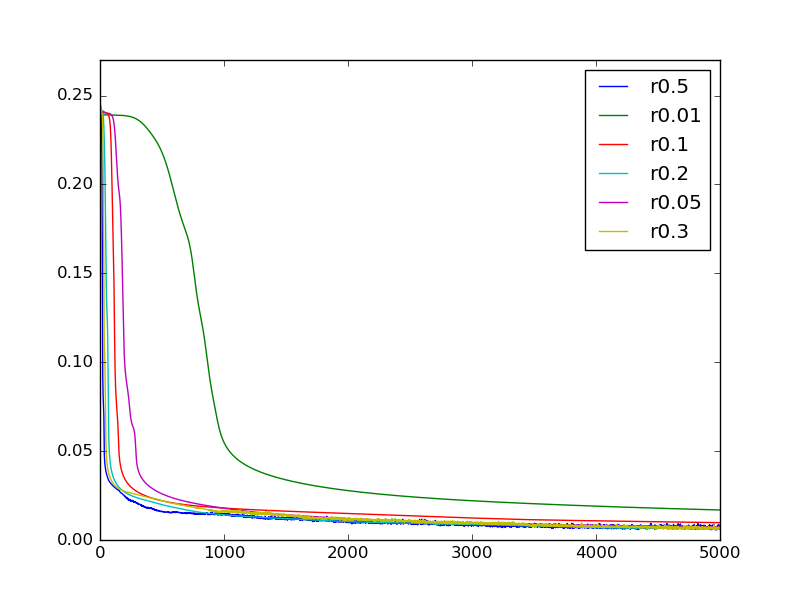
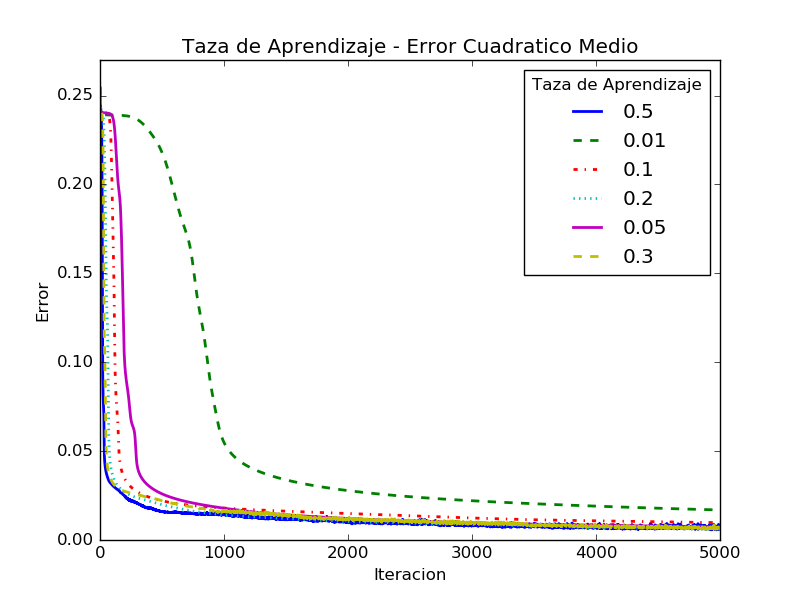
Se agregaron diferentes estilos de lineas para las graficas del error cuadratico medio.

diff --git a/src/graph.py b/src/graph.py
@@ -9,17 +9,36 @@ from network import Network
 dataFolder = "../error/circle/"
 graphFolder = "../graphs/"
 
+def getNewLabels(labels):
+
+    newLabels = []
+    for label in labels:
+        newLabels.append(label.replace("r",""))
+    return newLabels
+
 def generateMeanErrorGraph(errorFolder):
 
     iters = 5000
+    pos = 0
+    linestyles = ['-', '--', '-.', ':']
     print "Generating graphs for Mean Errors (%s) over %s iterations." %(errorFolder,iters)
 
     mainDirectory = dataFolder+errorFolder
 
+    if (errorFolder == "neurons"):
+        title = "Neuronas - Error Cuadratico Medio"
+        titleLegend = "# Neuronas"
+    else:
+        title = "Taza de Aprendizaje - Error Cuadratico Medio"
+        titleLegend = "Taza de Aprendizaje"
+
     for directory in os.listdir(mainDirectory):
         
         fig, ax = plt.subplots()
+        plt.title(title)
         plt.axis([0,iters,0,0.27])
+        ax.set_xlabel('Iteracion')
+        ax.set_ylabel('Error')
 
         print "Currently in directory: %s" %(directory)
 
@@ -38,6 +57,7 @@ def generateMeanErrorGraph(errorFolder):
 
             for fileName in os.listdir(subFolder):
                 f = open(os.path.join(subFolder, fileName), "r")
+
 
                 errors = json.load(f)
 
@@ -58,10 +78,17 @@ def generateMeanErrorGraph(errorFolder):
             #Finds the average of mean errors for each iteration.
             avgMeanErrorList = [sum(e)/len(e) for e in zip(*meanErrorListList)]
 
-            plt.plot(range(len(avgMeanErrorList)),avgMeanErrorList, label=subDirectory)
-            handles, labels = ax.get_legend_handles_labels()
-            ax.legend(handles, labels)
-            plt.savefig(graphFolder+errorFolder+"_"+directory+".png")
+            plt.plot(range(len(avgMeanErrorList)),avgMeanErrorList, label=subDirectory, linestyle=linestyles[pos], linewidth=2)
+            pos = (pos + 1) % len(linestyles)
+        
+        handles, labels = ax.get_legend_handles_labels()
+        
+        if (errorFolder == "learnRate"):
+            labels = getNewLabels(labels)
+
+        ax.legend(handles, labels, title=titleLegend)
+
+        plt.savefig(graphFolder+errorFolder+"_"+directory+".png")
    
 def generateCircleGraph(data,output):
     plt.axis([0,20,0,20])
@@ -76,21 +103,30 @@ def generateCircleGraph(data,output):
         inCircle = ((x-10)**2 + (y-10)**2) <= 49 
         print "Are coordinates %s, %s in circle? %s Output: %s" %(x,y,inCircle,output[i])
 
-        if inCircle:
-            if output[i] == 1:   
-                pass
-                # plt.plot(x,y, 'rs', markersize=5)
 
-            if output[i] == 0:
-               pass
+        if output[i] == 0:
 
+            if not inCircle:
+                plt.plot(x,y, 'rs', markersize=5)
         else:
 
-            if output[i] == 1:   
-               pass
+            if inCircle:
+                plt.plot(x,y, 'go', markersize=5)
+        # if inCircle:
+        #     if output[i] == 1:   
+        #         pass
+        #         # plt.plot(x,y, 'rs', markersize=5)
 
-            if output[i] == 0:
-                plt.plot(x,y, 'bo', markersize=5)
+        #     if output[i] == 0:
+        #        pass
+
+        # else:
+
+        #     if output[i] == 1:   
+        #        pass
+
+        #     if output[i] == 0:
+        #         plt.plot(x,y, 'bo', markersize=5)
               
     circle=plt.Circle((10,10),7,fill=False)
     plt.gca().add_artist(circle)

diff --git a/src/main.py b/src/main.py
@@ -240,7 +240,8 @@ def main(argv):
             totalError = 0
             totalError = network.train(data)
             totalErrors.append(totalError)
-            print "Iteration: %s, totalError: %s" %(iteration,totalError)
+            if (iteration % 100 == 0):
+                print "Iteration: %s, totalError: %s" %(iteration,totalError)
             iteration += 1
         
         network.printWeights()
